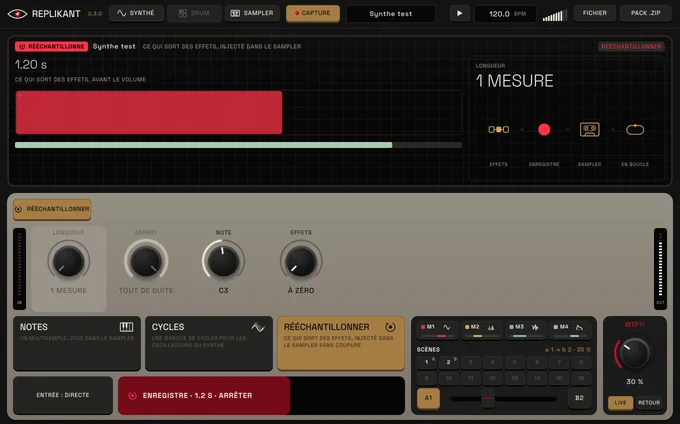
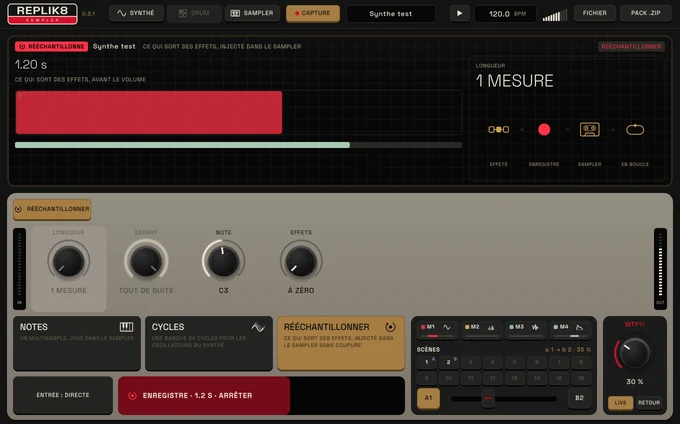
Site : REPLIK8, le badge, les interrupteurs des effets, captures d'écran refaites
Claude-Session: https://claude.ai/code/session_019CKNRPzxoxv9FfQ5Cf3pp3

Changed region(s): [[0.0, 0.0, 0.1544, 0.0613], [0.4941, 0.3373, 0.5868, 0.3679], [0.6176, 0.7665, 0.6485, 0.7972]]

diff --git a/site/index.html b/site/index.html
@@ -3,8 +3,8 @@
 <head>
 <meta charset="utf-8">
 <meta name="viewport" content="width=device-width, initial-scale=1">
-<title>REPLIKANT — capture tes synthés, joue-les autrement</title>
-<meta name="description" content="REPLIKANT échantillonne tes synthés tout seul, note par note ou cycle par cycle, et en fait un synthé et un sampler à part entière : filtres analogiques, effets, modulations, scènes, rééchantillonnage sans coupure. Pour Mac : AU, VST3 et appli. Gratuit.">
+<title>REPLIK8 — capture tes synthés, joue-les autrement</title>
+<meta name="description" content="REPLIK8 échantillonne tes synthés tout seul, note par note ou cycle par cycle, et en fait un synthé et un sampler à part entière : filtres analogiques, effets, modulations, scènes, rééchantillonnage sans coupure. Pour Mac : AU, VST3 et appli. Gratuit.">
 <meta name="theme-color" content="#121312">
 <link rel="icon" href="favicon.svg" type="image/svg+xml">
 <link rel="preload" href="fonts/SpaceGrotesk-Light.woff2" as="font" type="font/woff2" crossorigin>
@@ -14,7 +14,7 @@
 <body>
 
 <header class="bar">
-  <a class="logo" href="#haut" aria-label="REPLIKANT, haut de page"><svg class="logo-eye" viewBox="0 0 44 22" aria-hidden="true"><defs><clipPath id="lid2"><path d="M2 11Q22-7 42 11Q22 29 2 11Z"/></clipPath></defs><g clip-path="url(#lid2)"><circle cx="22" cy="11" r="6.6" fill="#ad0013"/><circle cx="22" cy="11" r="2.8" fill="#121312"/><circle cx="23.6" cy="8.9" r="1.1" fill="#fff"/></g><path d="M2 11Q22-7 42 11Q22 29 2 11Z" fill="none" stroke="#ece4d4" stroke-width="1.8"/></svg>REPLIKANT</a>
+  <a class="logo" href="#haut"><svg class="logo-badge" viewBox="0 0 140 40" role="img" aria-label="REPLIK8, haut de page"><defs><clipPath id="bc-logo-badge"><rect x=".9" y=".9" width="138.2" height="38.2" rx="6.8"/></clipPath></defs><rect x=".9" y=".9" width="138.2" height="38.2" rx="6.8" fill="#121312"/><g clip-path="url(#bc-logo-badge)"><rect x="0" y="24.8" width="140" height="16" fill="#ad0013"/></g><path d="M0 24.8h140" stroke="#ece4d4" stroke-width="1.8"/><rect x=".9" y=".9" width="138.2" height="38.2" rx="6.8" fill="none" stroke="#ece4d4" stroke-width="1.8"/><text x="70" y="20.2" text-anchor="middle" fill="#ece4d4" font-family="Grotesk, Helvetica, Arial, sans-serif" font-weight="700" font-size="21" textLength="114" lengthAdjust="spacingAndGlyphs">REPLIK8</text><text x="71.5" y="35.6" text-anchor="middle" fill="#ece4d4" font-family="Grotesk, Helvetica, Arial, sans-serif" font-weight="500" font-size="9.2" textLength="68" lengthAdjust="spacing">SAMPLER</text></svg></a>
   <nav>
     <a href="#installer">Installer</a>
     <a href="#brancher">Brancher</a>
@@ -31,16 +31,15 @@
 <main id="haut">
 
 <section class="hero" id="telecharger">
-  <svg class="eye" viewBox="0 0 44 22" aria-hidden="true"><defs><clipPath id="lid"><path d="M2 11Q22-7 42 11Q22 29 2 11Z"/></clipPath></defs><g clip-path="url(#lid)"><circle cx="22" cy="11" r="6.6" fill="#ad0013"/><circle cx="22" cy="11" r="2.8" fill="#121312"/><circle cx="23.6" cy="8.9" r="1.1" fill="#fff"/></g><path d="M2 11Q22-7 42 11Q22 29 2 11Z" fill="none" stroke="#ece4d4" stroke-width="1.8"/></svg>
-  <h1 class="title">REPLIKANT<i>.</i></h1>
+  <h1 class="title"><svg class="badge" viewBox="0 0 140 40" role="img" aria-label="REPLIK8 sampler"><defs><clipPath id="bc-badge"><rect x=".9" y=".9" width="138.2" height="38.2" rx="6.8"/></clipPath></defs><rect x=".9" y=".9" width="138.2" height="38.2" rx="6.8" fill="#121312"/><g clip-path="url(#bc-badge)"><rect x="0" y="24.8" width="140" height="16" fill="#ad0013"/></g><path d="M0 24.8h140" stroke="#ece4d4" stroke-width="1.8"/><rect x=".9" y=".9" width="138.2" height="38.2" rx="6.8" fill="none" stroke="#ece4d4" stroke-width="1.8"/><text x="70" y="20.2" text-anchor="middle" fill="#ece4d4" font-family="Grotesk, Helvetica, Arial, sans-serif" font-weight="700" font-size="21" textLength="114" lengthAdjust="spacingAndGlyphs">REPLIK8</text><text x="71.5" y="35.6" text-anchor="middle" fill="#ece4d4" font-family="Grotesk, Helvetica, Arial, sans-serif" font-weight="500" font-size="9.2" textLength="68" lengthAdjust="spacing">SAMPLER</text></svg></h1>
   <p class="tag">synthé · sampler · autosampleur</p>
   <p class="lead">Il échantillonne tes synthés tout seul, note par note ou cycle par cycle.
     Puis il les rejoue comme jamais&nbsp;: un <b>synthé</b>, un <b>sampler</b>, des filtres analogiques, des effets, des modulations.
     Et quand le son te plaît, tu le rééchantillonnes sans rien couper.</p>
   <div class="get">
-    <a class="dl" id="dl" href="https://github.com/distortedimages-code/REPLIKANT/releases/latest/download/REPLIKANT-mac.dmg">
+    <a class="dl" id="dl" href="https://github.com/distortedimages-code/REPLIKANT/releases/latest/download/REPLIK8-mac.dmg">
       <span class="dot" aria-hidden="true"></span> Télécharger
-      <small id="dl-file">REPLIKANT-mac.dmg</small>
+      <small id="dl-file">REPLIK8-mac.dmg</small>
     </a>
     <ul class="specs">
       <li><span class="ver">v@VERSION@</span></li><li>macOS 11+</li><li>Apple Silicon &amp; Intel</li><li>AU · VST3 · appli</li><li>gratuit · GPL-3</li>
@@ -49,7 +48,7 @@
   <figure class="screen">
     <img src="img/synthe-1360.webp" srcset="img/synthe-680.webp 680w, img/synthe-1360.webp 1360w"
          sizes="(max-width: 1100px) 100vw, 1084px" width="1360" height="848"
-         alt="REPLIKANT en mode SYNTHÉ : l'écran noir avec la pile de cycles et la courbe du filtre, les pages, les potards, le clavier, les mods et les scènes.">
+         alt="REPLIK8 en mode SYNTHÉ : l'écran noir avec la pile de cycles et la courbe du filtre, les pages, les potards, le clavier, les mods et les scènes.">
   </figure>
 </section>
 
@@ -62,9 +61,9 @@
     <div><h3><svg class="p" viewBox="0 0 24 24"><path d="M5 10c1.6-5 4.8-5 6.4 0s4.8 5 6.4 0" opacity=".35"/><path d="M3.5 12.5c1.6-5 4.8-5 6.4 0s4.8 5 6.4 0" opacity=".65"/><path d="M2 15c1.6-5 4.8-5 6.4 0s4.8 5 6.4 0"/></svg>Capture des cycles</h3><p>Balaie un bouton de ton synthé&nbsp;: chaque position devient un cycle. Une banque d'ondes faite de ton propre son.</p></div>
     <div><h3><svg class="p" viewBox="0 0 24 24"><path d="M14.6 4.6A8 8 0 1 1 6.3 6"/><path class="f" d="M5 3.2l4.4 1.4-3.2 3.4z"/><circle class="f" cx="12" cy="12" r="3"/></svg>Rééchantillonner</h3><p>Enregistre ce qui sort des effets et rejoue-le aussitôt, sans la moindre coupure. Puis repasse-le dans la machine.</p></div>
     <div><h3><svg class="p" viewBox="0 0 24 24"><rect x="2.5" y="2.5" width="19" height="19" rx="2"/><path d="M7 8c1.7-2.4 3.3 2.4 5 0s3.3 2.4 5 0M7 12c1.7-2.4 3.3 2.4 5 0s3.3 2.4 5 0M7 16c1.7-2.4 3.3 2.4 5 0s3.3 2.4 5 0"/><path d="M9.5 10.4l5-4.8"/></svg>Filtres</h3><p>Six filtres analogiques modélisés au plus près du circuit, suréchantillonnés, avec drive et réinjection FM.</p></div>
-    <div><h3><svg class="p" viewBox="0 0 24 24"><rect x="1" y="8.5" width="6" height="7" rx="1.2"/><rect class="f" x="9" y="8.5" width="6" height="7" rx="1.2"/><rect x="17" y="8.5" width="6" height="7" rx="1.2"/><path d="M7 12h2M15 12h2"/></svg>Effets</h3><p>Spectre, pitch, chorus, crush, espace. Change leur ordre en les glissant, en plein jeu, sans un clic.</p></div>
+    <div><h3><svg class="p" viewBox="0 0 24 24"><rect x="1" y="8.5" width="6" height="7" rx="1.2"/><rect class="f" x="9" y="8.5" width="6" height="7" rx="1.2"/><rect x="17" y="8.5" width="6" height="7" rx="1.2"/><path d="M7 12h2M15 12h2"/></svg>Effets</h3><p>Drive, spectre, pitch, chorus, crush, espace. Glisse-les dans l'ordre que tu veux, coupe-les d'un interrupteur, en plein jeu, sans un clic.</p></div>
     <div><h3><svg class="p" viewBox="0 0 24 24"><circle cx="5" cy="6" r="2.8"/><circle cx="19" cy="6" r="2.8"/><circle class="f" cx="5" cy="6" r=".9"/><circle class="f" cx="19" cy="6" r=".9"/><path d="M5 8.8c0 15 14 15 14 0"/></svg>Mods et scènes</h3><p>Quatre modulateurs calés sur le tempo, seize scènes et un fader pour glisser de l'une à l'autre. Et WTF?! pour tout faire basculer.</p></div>
-    <div><h3><svg class="p" viewBox="0 0 24 24"><rect x="4" y="9" width="16" height="12" rx="1.6"/><path d="M12 15V2M8 6l4-4 4 4"/></svg>Partage</h3><p>Un instrument complet dans un seul fichier. Tu l'envoies, ton pote le glisse dans REPLIKANT, c'est joué.</p></div>
+    <div><h3><svg class="p" viewBox="0 0 24 24"><rect x="4" y="9" width="16" height="12" rx="1.6"/><path d="M12 15V2M8 6l4-4 4 4"/></svg>Partage</h3><p>Un instrument complet dans un seul fichier. Tu l'envoies, ton pote le glisse dans REPLIK8, c'est joué.</p></div>
   </div>
 </section>
 
@@ -79,7 +78,7 @@
   <div class="route" data-route="pkg">
     <ol class="steps-list">
       <li><kbd>1</kbd>Ouvre le DMG. Quitte ton DAW.</li>
-      <li><kbd>2</kbd>Double-clic sur <b>Installer REPLIKANT</b>. <small>« Personnaliser » = juste l'AU, le VST3 ou l'appli.</small></li>
+      <li><kbd>2</kbd>Double-clic sur <b>Installer REPLIK8</b>. <small>« Personnaliser » = juste l'AU, le VST3 ou l'appli.</small></li>
       <li><kbd>3</kbd>macOS refuse&nbsp;? <small>(Il n'aime pas ce qui n'est pas signé chez Apple.)</small> Ouvre le Terminal&nbsp;: <kbd class="k">⌘</kbd>+<kbd class="k">Espace</kbd>, tape <b>Terminal</b>, <kbd class="k">⏎</kbd>. Colle&nbsp;:
         <div class="cmd"><code id="cmd-pkg">@INSTALLER_CMD@</code><button class="copy" data-copy="cmd-pkg">Copier</button></div>
         <small>Puis ton mot de passe&nbsp;: rien ne s'affiche quand tu le tapes, c'est normal.</small></li>
@@ -95,7 +94,7 @@
         <small>Mot de passe (invisible, c'est normal). Elle débloque l'AU et le VST3, puis fait valider l'AU.</small></li>
     </ol>
   </div>
-  <p class="done">Quand le Terminal dit <b class="y">REPLIKANT est prêt.</b>, rouvre ton DAW. <small>Live ne le voit pas&nbsp;? Réglages › Plug-ins › Réanalyser.</small><br>
+  <p class="done">Quand le Terminal dit <b class="y">REPLIK8 est prêt.</b>, rouvre ton DAW. <small>Live ne le voit pas&nbsp;? Réglages › Plug-ins › Réanalyser.</small><br>
     Ensuite, les mises à jour se font depuis le plug-in&nbsp;: bouton <b>Mise à jour</b> en haut quand une version sort.</p>
 </section>
 
@@ -103,20 +102,20 @@
 <!-- 02 BRANCHER ============================================================= -->
 <section class="mod" id="brancher">
   <h2><span>02 · Brancher</span><svg class="p" viewBox="0 0 24 24"><path d="M1 12h3"/><rect x="4" y="8.6" width="7" height="6.8" rx="1.4"/><path d="M11 10.3h6.5M11 13.7h6.5M17.5 10.3c3 0 3.5 1.7 4 1.7-.5 0-1 1.7-4 1.7"/></svg></h2>
-  <p class="intro">Pour jouer, rien à brancher. Pour capturer, deux câbles&nbsp;: le <b>MIDI</b> vers ton synthé, sa <b>sortie audio</b> vers ta carte son. REPLIKANT pilote le synthé lui-même, quel que soit ton DAW.</p>
+  <p class="intro">Pour jouer, rien à brancher. Pour capturer, deux câbles&nbsp;: le <b>MIDI</b> vers ton synthé, sa <b>sortie audio</b> vers ta carte son. REPLIK8 pilote le synthé lui-même, quel que soit ton DAW.</p>
   <div class="daw">
     <div><h3>L'appli (le plus simple)</h3><ol>
       <li><b>Fichier › Réglages audio et MIDI</b>&nbsp;: ta carte son et l'entrée du synthé.</li>
       <li><b>Capture › Source</b>&nbsp;: Son = <b>entrée</b>, Sortie MIDI = le port du synthé.</li>
       <li><b>Tester une note</b>&nbsp;: tu entends un C3, le niveau d'entrée bouge. C'est prêt.</li></ol></div>
     <div><h3>Logic</h3><ol>
-      <li>Pour jouer&nbsp;: une piste d'instrument, slot d'instrument › <i>Effets contrôlés par MIDI</i> › REPLIKANT.</li>
-      <li>Pour capturer&nbsp;: REPLIKANT en effet audio sur la piste qui reçoit le synthé, monitoring d'entrée allumé, puis <b>Lancer la capture</b>.</li></ol></div>
+      <li>Pour jouer&nbsp;: une piste d'instrument, slot d'instrument › <i>Effets contrôlés par MIDI</i> › REPLIK8.</li>
+      <li>Pour capturer&nbsp;: REPLIK8 en effet audio sur la piste qui reçoit le synthé, monitoring d'entrée allumé, puis <b>Lancer la capture</b>.</li></ol></div>
     <div><h3>Bitwig, Reaper, Cubase</h3><ol>
-      <li>REPLIKANT sur une piste&nbsp;: il joue les notes de la piste et enregistre l'audio qui y arrive.</li>
+      <li>REPLIK8 sur une piste&nbsp;: il joue les notes de la piste et enregistre l'audio qui y arrive.</li>
       <li>Sortie MIDI = le port du synthé, ou <b>DAW</b> si tu routes la sortie MIDI du plug-in.</li></ol></div>
     <div><h3>Ableton Live</h3><ol>
-      <li>REPLIKANT sur une piste audio (entrée = le synthé, Monitor <i>In</i>)&nbsp;: il capture et sert de multi-effet.</li>
+      <li>REPLIK8 sur une piste audio (entrée = le synthé, Monitor <i>In</i>)&nbsp;: il capture et sert de multi-effet.</li>
       <li>Pour jouer les instruments&nbsp;: l'appli, ou l'export en dossier de WAV.</li></ol></div>
   </div>
   <p class="cap" style="margin:14px 24px 0">Pas de synthé sous la main&nbsp;? Choisis le <b>synthé test</b> intégré comme source et essaie tout. Astuce&nbsp;: à <b>96&nbsp;kHz</b>, les transpositions très graves restent nettes.</p>
@@ -125,9 +124,9 @@
 <!-- 03 CAPTURER ============================================================= -->
 <section class="mod" id="capturer">
   <h2><span>03 · Capturer</span><svg class="p" viewBox="0 0 24 24"><rect x="1.5" y="5" width="21" height="14" rx="1"/><path d="M7.5 5v14M12 5v14M16.5 5v14" opacity=".6"/><rect class="f" x="6.2" y="5" width="2.6" height="8"/><rect class="f" x="10.7" y="5" width="2.6" height="8"/></svg></h2>
-  <p class="intro">Appuie sur <b>Capture</b> et choisis ce que tu veux prendre à ton synthé. REPLIKANT s'occupe du reste.</p>
+  <p class="intro">Appuie sur <b>Capture</b> et choisis ce que tu veux prendre à ton synthé. REPLIK8 s'occupe du reste.</p>
   <ol class="steps-list">
-    <li><kbd>NOTES</kbd><b>Un multisample, sans y passer la nuit.</b> Choisis la plage, jusqu'à 16 vélocités et 8 prises par note. REPLIKANT joue chaque note, coupe les attaques au bon endroit, trouve les boucles, vérifie la justesse et calcule les touches manquantes. <small>À la fin, ton instrument t'attend dans le sampler.</small></li>
+    <li><kbd>NOTES</kbd><b>Un multisample, sans y passer la nuit.</b> Choisis la plage, jusqu'à 16 vélocités et 8 prises par note. REPLIK8 joue chaque note, coupe les attaques au bon endroit, trouve les boucles, vérifie la justesse et calcule les touches manquantes. <small>À la fin, ton instrument t'attend dans le sampler.</small></li>
     <li><kbd>CYC</kbd><b>Ta propre banque d'ondes.</b> Une note grave tenue 8 à 64 fois, pendant qu'un CC balaie un bouton du synthé, que la vélocité monte ou que tu tournes toi-même un potard. Chaque prise donne un cycle. <small>La banque part directement dans le synthé&nbsp;: tourne POSITION pour la parcourir. Elle est aussi exportée en wavetable standard de 2048 points.</small></li>
     <li><kbd>RÉÉ</kbd><b>Le son de tes effets, figé en instrument.</b> Enregistre 1, 2, 4 ou 8 mesures calées sur le tempo, ou en libre. À la fin, la boucle prend le relais sans un trou, les effets se remettent à zéro et le son devient un instrument du sampler. <small>Joue une note et tu reprends la main&nbsp;: transpose-le, boucle-le, repasse-le dans les effets. En insert, ça marche avec n'importe quelle piste de ton DAW.</small></li>
   </ol>
@@ -140,7 +139,7 @@
 <!-- 04 TRANSPOSER =========================================================== -->
 <section class="mod" id="transposer">
   <h2><span>04 · Transposer</span><svg class="p" viewBox="0 0 24 24"><path d="M9 2v9c0 4 6 4 6 0V2M12 14.5V22"/></svg></h2>
-  <p class="intro">Entre deux notes capturées, REPLIKANT calcule les touches manquantes. Et elles sonnent comme ton synthé, pas comme un sample étiré. Trois moteurs au choix&nbsp;:</p>
+  <p class="intro">Entre deux notes capturées, REPLIK8 calcule les touches manquantes. Et elles sonnent comme ton synthé, pas comme un sample étiré. Trois moteurs au choix&nbsp;:</p>
   <ul class="steps-list">
     <li><kbd>HQ</kbd><b>HQ formants</b> (par défaut)&nbsp;: la hauteur change, le timbre reste. Le filtre de ton synthé ne monte pas avec la note, exactement comme sur la machine.</li>
     <li><kbd>HD</kbd><b>Classique HD</b>&nbsp;: le varispeed des samplers d'origine, en haute définition, sans repliement.</li>
@@ -161,7 +160,7 @@
 <!-- 05 SYNTHÉ =============================================================== -->
 <section class="mod" id="synthe">
   <h2><span>05 · Synthé</span><svg class="p" viewBox="0 0 24 24"><path d="M2 12c2.5-8 7.5-8 10 0s7.5 8 10 0"/></svg></h2>
-  <p class="intro">Le mode par défaut&nbsp;: tu ouvres REPLIKANT, tu joues.</p>
+  <p class="intro">Le mode par défaut&nbsp;: tu ouvres REPLIK8, tu joues.</p>
   <ul class="steps-list">
     <li><kbd>OSC</kbd><b>Deux oscillateurs à cycles.</b> 64 formes de base (sinus, dents de scie, carrés, impulsions, sync, formants) ou tes propres cycles capturés, à parcourir en continu. Aucun repliement, même tout en haut du clavier.</li>
     <li><kbd>VOIX</kbd><b>De quoi l'épaissir.</b> Modulation de phase de B vers A, sub à l'octave, bruit, unisson jusqu'à 4 voix étalées en stéréo. Poly, mono ou legato, avec glisse.</li>
@@ -189,10 +188,10 @@
   <ul class="steps-list">
     <li><kbd>FLT</kbd><b>Six filtres analogiques</b> modélisés au plus près du circuit et suréchantillonnés&nbsp;: échelle à transistors, double filtre rugueux, variable d'état, double résonance, CMOS, ampli op saturé. L'écran dessine la courbe et le schéma de chacun.</li>
     <li><kbd>DRV</kbd><b>Drive</b>&nbsp;: lampe, console ou bande magnétique.</li>
-    <li><kbd>FX</kbd><b>Cinq effets</b>&nbsp;: spectre (le son redessiné par une nuée d'oscillateurs), pitch (deux voix, cristaux), chorus, crush, espace (une réverbération immense, avec shimmer). <b>Glisse les blocs</b> pour changer leur ordre, en plein jeu, sans un clic.</li>
-    <li><kbd>IN</kbd><b>Multi-effet</b>&nbsp;: en insert sur une piste, REPLIKANT traite n'importe quelle source, et tu peux rééchantillonner le résultat.</li>
+    <li><kbd>FX</kbd><b>Cinq effets</b>&nbsp;: spectre (le son redessiné par une nuée d'oscillateurs), pitch (deux voix, cristaux), chorus, crush, espace (une réverbération immense, avec shimmer). <b>Glisse les blocs</b>, drive compris, pour changer leur ordre en plein jeu, sans un clic. <b>Un interrupteur sur chaque bloc</b> le coupe ou le remet, sans toucher à son réglage.</li>
+    <li><kbd>IN</kbd><b>Multi-effet</b>&nbsp;: en insert sur une piste, REPLIK8 traite n'importe quelle source, et tu peux rééchantillonner le résultat.</li>
   </ul>
-  <figure class="shot"><img src="img/effets-1360.webp" srcset="img/effets-680.webp 680w, img/effets-1360.webp 1360w" sizes="(max-width: 1100px) 100vw, 1070px" width="1360" height="848" loading="lazy" alt="La chaîne d'effets : les blocs à glisser, chacun avec son picto."></figure>
+  <figure class="shot"><img src="img/effets-1360.webp" srcset="img/effets-680.webp 680w, img/effets-1360.webp 1360w" sizes="(max-width: 1100px) 100vw, 1070px" width="1360" height="848" loading="lazy" alt="La chaîne d'effets : les blocs à glisser, chacun avec son picto et son interrupteur."></figure>
 </section>
 
 <!-- 08 MODULER ============================================================== -->
@@ -214,16 +213,16 @@
   <ul class="steps-list">
     <li><kbd>WAV</kbd><b>Dossier de WAV</b>&nbsp;: chaque fichier embarque sa note, sa justesse, sa boucle et sa zone, prêt pour n'importe quel sampler, logiciel ou matériel.</li>
     <li><kbd>BW</kbd><b>Multisample Bitwig</b>&nbsp;: l'instrument complet, zones, vélocités et boucles comprises.</li>
-    <li><kbd>ZIP</kbd><b>Pack .zip</b>&nbsp;: l'instrument, ses samples, ses cycles et son réglage dans un seul fichier. Envoie-le par mail ou AirDrop&nbsp;; de l'autre côté, il suffit de le glisser dans REPLIKANT.</li>
+    <li><kbd>ZIP</kbd><b>Pack .zip</b>&nbsp;: l'instrument, ses samples, ses cycles et son réglage dans un seul fichier. Envoie-le par mail ou AirDrop&nbsp;; de l'autre côté, il suffit de le glisser dans REPLIK8.</li>
   </ul>
-  <p class="cap" style="margin:12px 24px 0">Tes instruments vivent dans <b>Musique › REPLIKANT</b>, et ton projet s'en souvient.</p>
+  <p class="cap" style="margin:12px 24px 0">Tes instruments vivent dans <b>Musique › REPLIK8</b>, et ton projet s'en souvient.</p>
 </section>
 
 </main>
 
 <footer>
   <p class="links"><a href="https://github.com/distortedimages-code/REPLIKANT">Le code</a> · <a href="https://github.com/distortedimages-code/REPLIKANT/releases">Les versions</a></p>
-  <p>REPLIKANT v@VERSION@ · logiciel libre, GPL-3</p>
+  <p>REPLIK8 v@VERSION@ · logiciel libre, GPL-3</p>
 </footer>
 
 <script>

diff --git a/site/style.css b/site/style.css
@@ -1,4 +1,4 @@
-/* REPLIKANT's site, in the plug-in's own look (0.3, NOIR & OR): a near-black, a black screen, the gold of the keys that
+/* REPLIK8's site, in the plug-in's own look (0.3, NOIR & OR): a near-black, a black screen, the gold of the keys that
    are on, a deep red for what records; fine-line pictos. Fonts: Space Grotesk and IBM Plex Mono (SIL OFL). */
 @font-face { font-family: Grotesk; font-weight: 300; src: url(fonts/SpaceGrotesk-Light.woff2) format('woff2'); font-display: swap; }
 @font-face { font-family: Grotesk; font-weight: 500; src: url(fonts/SpaceGrotesk-Medium.woff2) format('woff2'); font-display: swap; }
@@ -33,7 +33,7 @@ svg.p .f { fill: currentColor; stroke: none; }
   background: rgba(18, 19, 18, .92); backdrop-filter: blur(8px); -webkit-backdrop-filter: blur(8px); border-bottom: 1px solid var(--line);
 }
 .logo { display: flex; align-items: center; gap: 10px; font: 500 18px var(--sans); letter-spacing: .05em; text-decoration: none; color: var(--cream); margin-right: 10px; white-space: nowrap; }
-.logo svg { width: 34px; height: 18px; }
+.logo svg { width: 86px; height: 25px; display: block; }
 .bar nav { display: flex; gap: 6px; flex: 1; overflow-x: auto; scrollbar-width: none; }
 .bar nav a, .tabs button {
   font: 500 12px var(--mono); letter-spacing: .08em; text-transform: uppercase; text-decoration: none; color: var(--cream);
@@ -53,9 +53,8 @@ main { max-width: 1120px; margin: 0 auto; padding: 0 18px; }
 
 /* the hero ---------------------------------------------------------------------------------------------------------- */
 .hero { padding: 56px 0 10px; text-align: center; }
-.eye { display: block; width: 110px; height: 56px; margin: 0 auto 6px; }
-.title { font: 500 76px/1 var(--sans); letter-spacing: .06em; margin: 10px 0 0; }
-.title i { color: var(--red-hi); }
+.title { margin: 10px 0 0; line-height: 0; }
+.title .badge { width: 400px; max-width: 86vw; height: auto; }
 .tag { font: 500 13px var(--mono); letter-spacing: .16em; text-transform: uppercase; color: var(--gold-hi); margin: 16px 0 0; }
 .lead { font-size: 23px; line-height: 1.45; max-width: 820px; margin: 22px auto 30px; }
 .get { display: flex; flex-direction: column; align-items: center; gap: 16px; }
@@ -132,7 +131,7 @@ footer .links { font: 500 12px var(--mono); letter-spacing: .1em; text-transform
   body { font-size: 17px; }
   .bar nav { display: none; }
   .bar { justify-content: space-between; }
-  .title { font-size: 48px; }
+  .title .badge { width: 280px; }
   .lead { font-size: 20px; }
   .facts, .daw { grid-template-columns: 1fr; }
   .steps-list li { padding-left: 0; text-indent: 0; }

diff --git a/site/build_site.py b/site/build_site.py
@@ -1,5 +1,5 @@
 #!/usr/bin/env python3
-"""REPLIKANT's site (GitHub Pages): site/ as it is, with the version (CMakeLists.txt) and the two Terminal commands of the
+"""REPLIK8's site (GitHub Pages): site/ as it is, with the version (CMakeLists.txt) and the two Terminal commands of the
 disk image (tools/dmg) written in, so that the page and the DMG always say the same thing.
 
   python3 site/build_site.py [out]        (default site/out)"""
